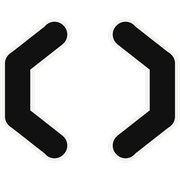
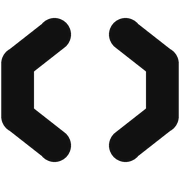
Switch the tab mark to solid black or white from the system theme.

Changed region(s): [[0.5833, 0.0833, 1.0, 0.9167], [0.0, 0.0833, 0.4167, 0.9167]]

diff --git a/app/layout.tsx b/app/layout.tsx
@@ -53,10 +53,11 @@ export const metadata: Metadata = {
   metadataBase: new URL("https://entityintelligence.io"),
   icons: {
     icon: [
-      { url: "/favicon.ico", sizes: "48x48", type: "image/x-icon" },
-      { url: "/icon-32.png", type: "image/png", sizes: "32x32" },
+      { url: "/favicon-light.ico", media: "(prefers-color-scheme: light)", type: "image/x-icon" },
+      { url: "/favicon-dark.ico", media: "(prefers-color-scheme: dark)", type: "image/x-icon" },
+      { url: "/icon-light.png", media: "(prefers-color-scheme: light)", type: "image/png", sizes: "32x32" },
+      { url: "/icon-dark.png", media: "(prefers-color-scheme: dark)", type: "image/png", sizes: "32x32" },
     ],
-    shortcut: "/favicon.ico",
     apple: [{ url: "/apple-touch-icon.png", sizes: "180x180" }],
   },
   openGraph: {
@@ -74,9 +75,10 @@ export default function RootLayout({ children }: Readonly<{ children: React.Reac
       className={`${fragment.variable} ${plex.variable} ${oswald.variable} ${cy.variable} ${formaDisplay.variable} ${formaMicro.variable}`}
     >
       <head>
-        <link rel="shortcut icon" href="/favicon.ico" />
-        <link rel="icon" href="/favicon.ico" sizes="any" />
-        <link rel="icon" href="/icon-32.png" type="image/png" sizes="32x32" />
+        <link rel="icon" href="/favicon-light.ico" media="(prefers-color-scheme: light)" />
+        <link rel="icon" href="/favicon-dark.ico" media="(prefers-color-scheme: dark)" />
+        <link rel="icon" href="/icon-light.png" type="image/png" sizes="32x32" media="(prefers-color-scheme: light)" />
+        <link rel="icon" href="/icon-dark.png" type="image/png" sizes="32x32" media="(prefers-color-scheme: dark)" />
         <link rel="apple-touch-icon" href="/apple-touch-icon.png" />
         <link rel="mask-icon" href="/safari-pinned-tab.svg" color="#111111" />
         <script
